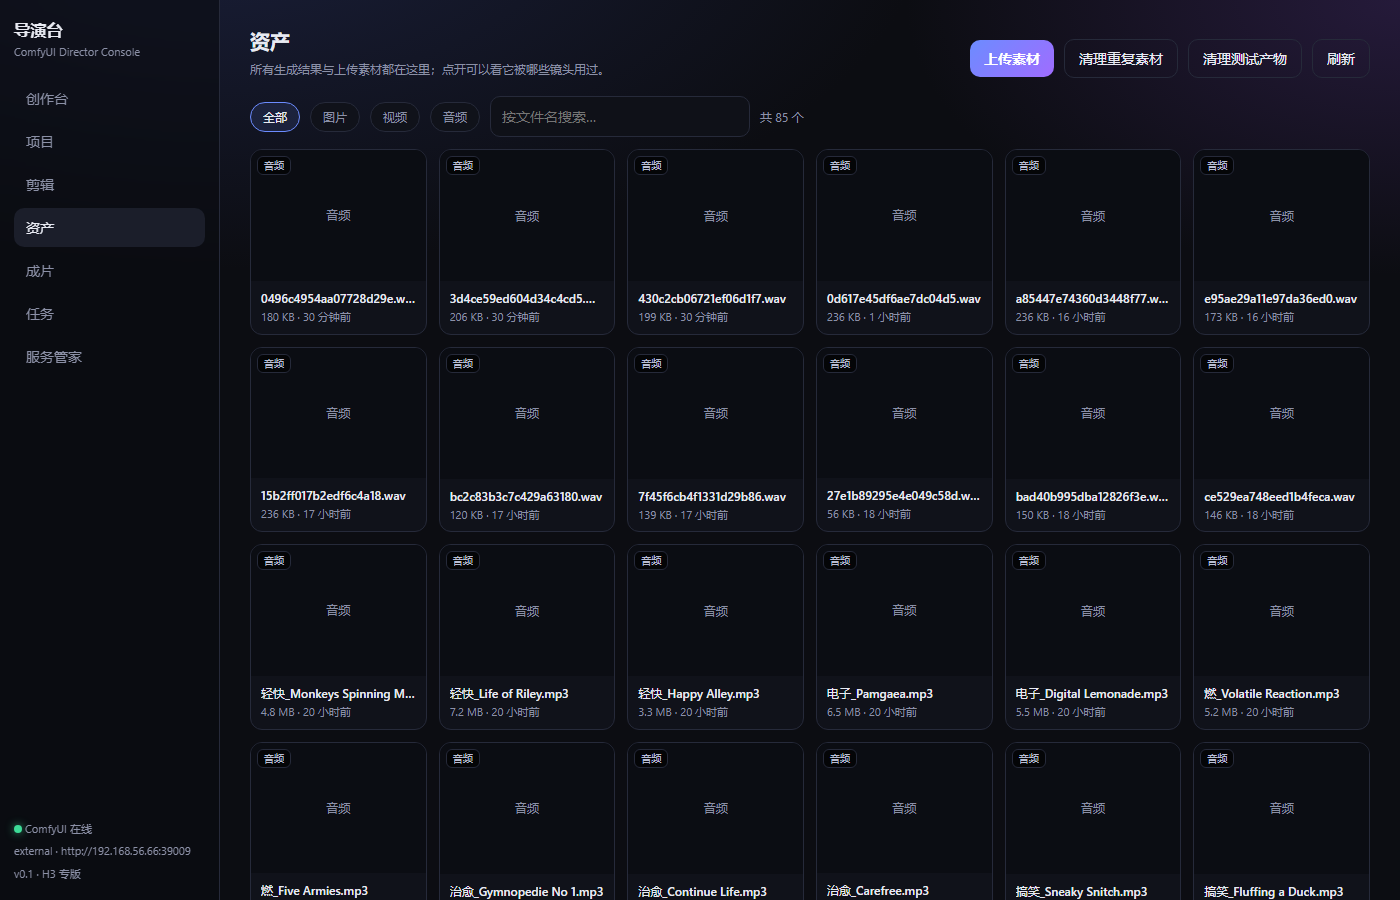
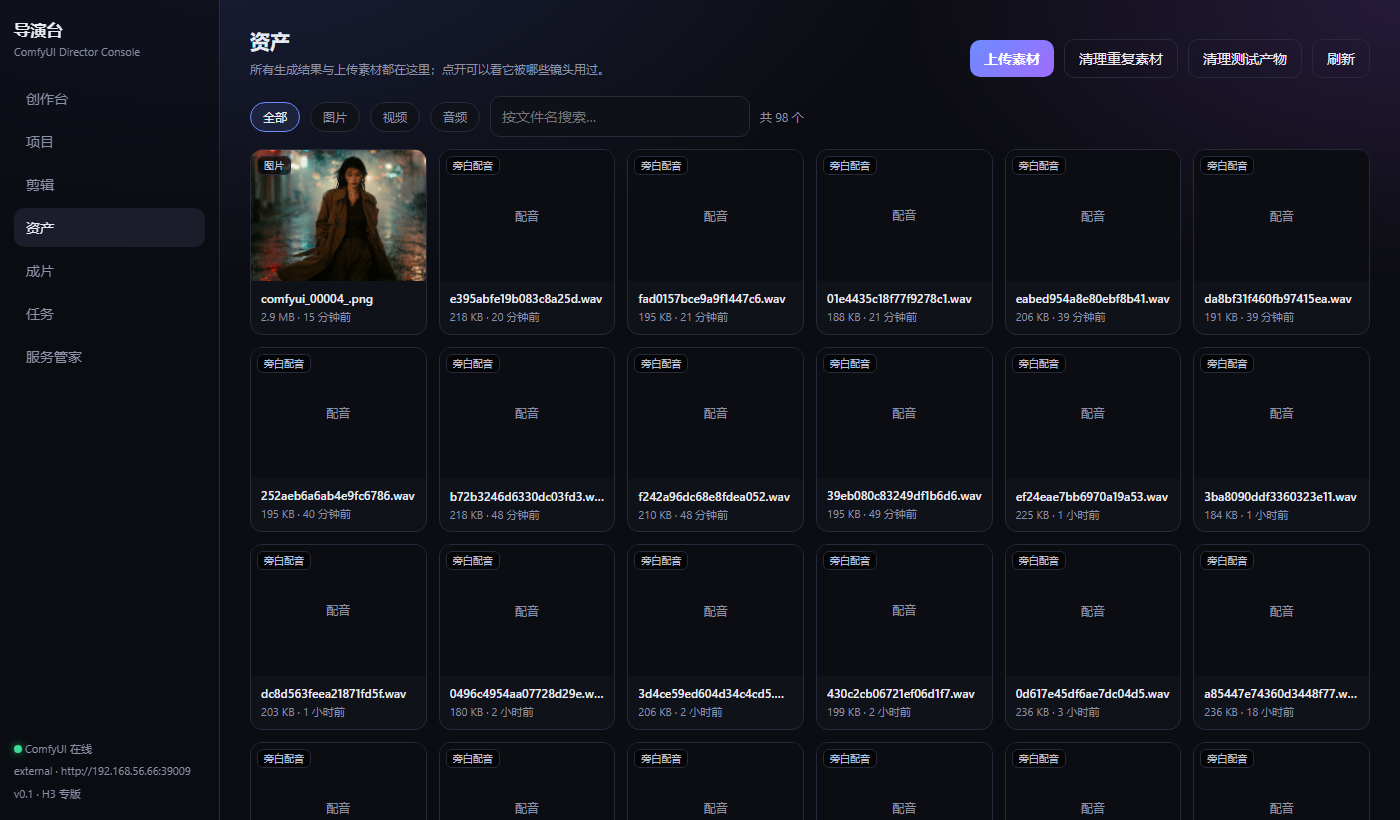
fix(资产/导航): 补齐 purpose 查询参数让音频筛选生效；角标首次进入按已读处理

diff --git a/web/src/App.tsx b/web/src/App.tsx
@@ -62,6 +62,15 @@ export default function App() {
 
   // 角标：统计上次查看之后新完成的任务/成片
   useEffect(() => {
+    // 第一次使用（没有记录）时把“已读时间”初始化到现在，避免历史记录全变成未读
+    for (const key of ['jobs', 'renders'] as BadgeKey[]) {
+      if (!window.localStorage.getItem(badgeSeenKey(key))) {
+        writeSeen(key, Date.now() / 1000)
+      }
+    }
+  }, [])
+
+  useEffect(() => {
     let stopped = false
     const tick = async () => {
       try {

diff --git a/web/src/api.ts b/web/src/api.ts
@@ -187,6 +187,7 @@ export const api = {
     const qs = new URLSearchParams()
     if (params.kind) qs.set('kind', params.kind)
     if (params.q) qs.set('q', params.q)
+    if (params.purpose) qs.set('purpose', params.purpose)
     qs.set('limit', String(params.limit ?? 60))
     qs.set('offset', String(params.offset ?? 0))
     return request<{ items: Asset[]; total: number; limit: number; offset: number }>(`/api/assets?${qs.toString()}`)
